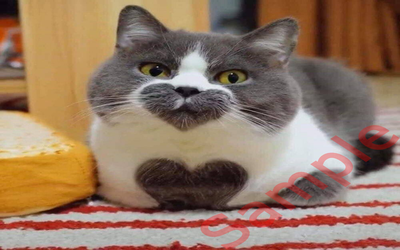
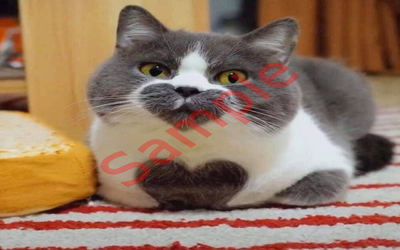
upd

Changed region(s): [[0.48, 0.504, 1.0, 1.0], [0.24, 0.252, 0.75, 0.756]]

diff --git a/pr_10/handler.php b/pr_10/handler.php
@@ -52,9 +52,10 @@ class ImageWatermark
     {
         $image_size = $this->image->getSize();
         $this->watermark->resize(new Box($image_size->getWidth() / 2, $image_size->getHeight() / 2));
+        $watermark_size = $this->watermark->getSize();
         
-        # Добавить смещение для правильной позиции
-        $center = new Point($image_size->getWidth() / 2, $image_size->getHeight() / 2);
+        # Делим на 4 для правильной позиции, так как центр картинки это левый верхний угол, а не настоящий центр
+        $center = new Point($image_size->getWidth() / 4, $image_size->getHeight() / 4);
 
         $this->image->paste($this->watermark, $center);
         $this->image->resize( new Box($this->new_image_size['width'], $this->new_image_size['height']) );

diff --git a/pr_4/pr_4.php b/pr_4/pr_4.php
@@ -88,7 +88,7 @@ function make_list(array $from): string
 
         if (is_array($val)) {
 
-            if ($val != []) {
+            if ( !empty($val) ) {
                 $res .= '<li>' . "'$key' => [" . '<ul>';
                 foreach ($val as $item) {
                     $res .= make_list($item);
@@ -117,7 +117,7 @@ function make_unordered_list(array $from): string
 }
 
 // echo '<ul>' . make_list($example) . '</ul>';
-// echo make_unordered_list($example);
+echo make_unordered_list($example);
 
 $t = [
     1,
